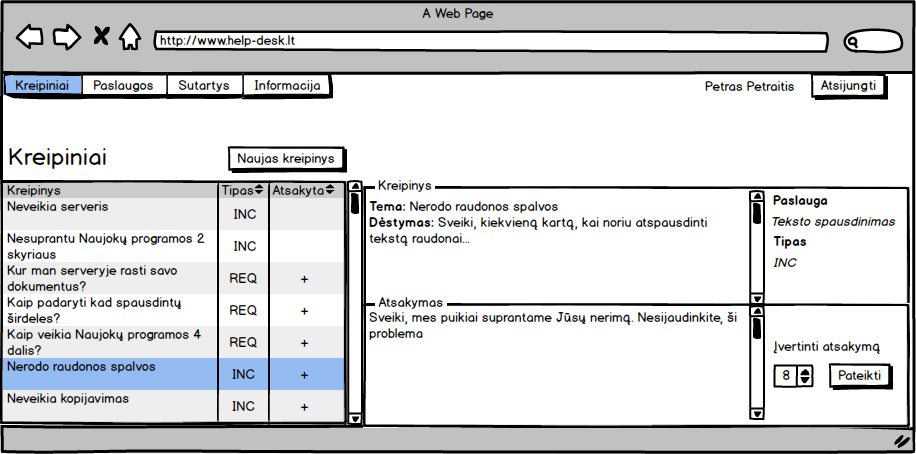
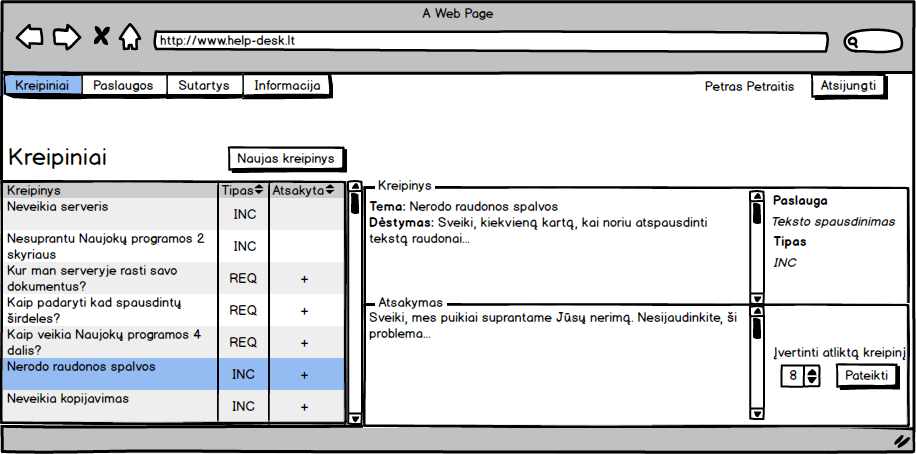
Aprasiau diagramas

Changed region(s): [[0.8253, 0.7401, 1.0, 0.8634]]

diff --git a/docs/zmogaus-kompiuterio-saveika/hierarch-uzd-analize-ir-maketas/analize.tex b/docs/zmogaus-kompiuterio-saveika/hierarch-uzd-analize-ir-maketas/analize.tex
@@ -203,9 +203,27 @@
 
 	\paragraph{Užduoties dekompozicija}
 
-	\insertPicture{klientas}{Kreipinio pateikimo savitarnos sistemoje analizė}
+	\insertPicture{klientas-naujas_kreipinys}{Kreipinio pateikimo savitarnos sistemoje analizė}
 
 	Užduoties dekompozicijai panaudojome Hierarchinės Užduočių Analizės metodus.
 	Kreipinio pateikimo užduotį skirstome hierarchiškai pagal abstraktumo lygmenis. 
-	Žr. \referToPicture{klientas}
+	Žr. \referToPicture{klientas-naujas_kreipinys}
+	
+	\subsubsection{Įvertinti atliktą kreipinį}
+		
+		\begin{itemize}
+			\item \textbf{Įvestis}
+				\subitem {Tliktas kreipinys}
+			\item \textbf{Išvestis} 
+				\subitem {Pateiktas įvertinimas}
+		\end{itemize}
+
+
+	\paragraph{Užduoties dekompozicija}
+
+	\insertPicture{klientas-ivertinimas}{Kreipinio pateikimo savitarnos sistemoje analizė}
+
+	Užduoties dekompozicijai panaudojome Hierarchinės Užduočių Analizės metodus.
+	Kreipinio pateikimo užduotį skirstome hierarchiškai pagal abstraktumo lygmenis. 
+	Žr. \referToPicture{klientas-ivertinimas}
 
